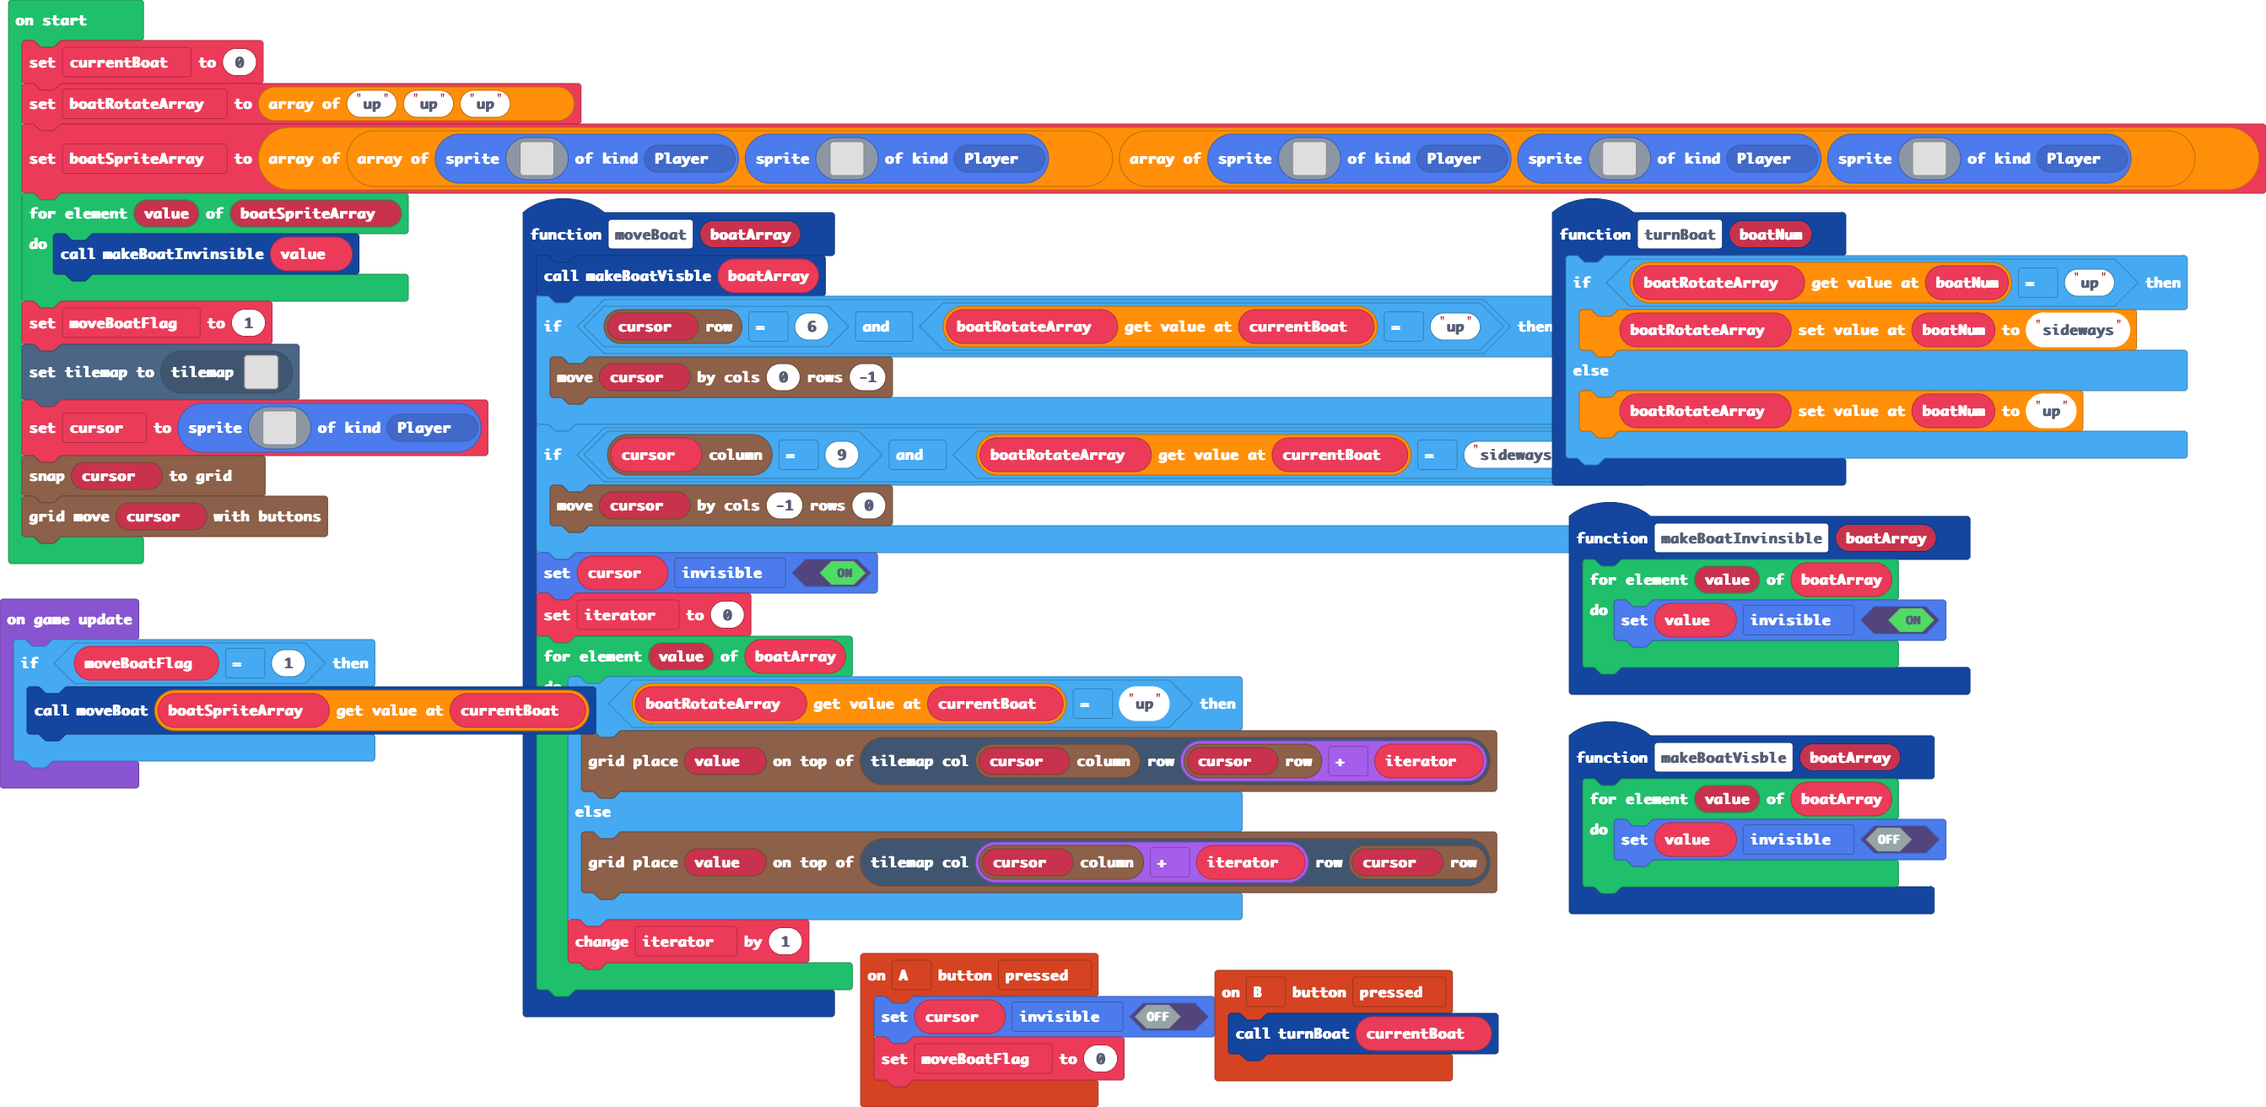
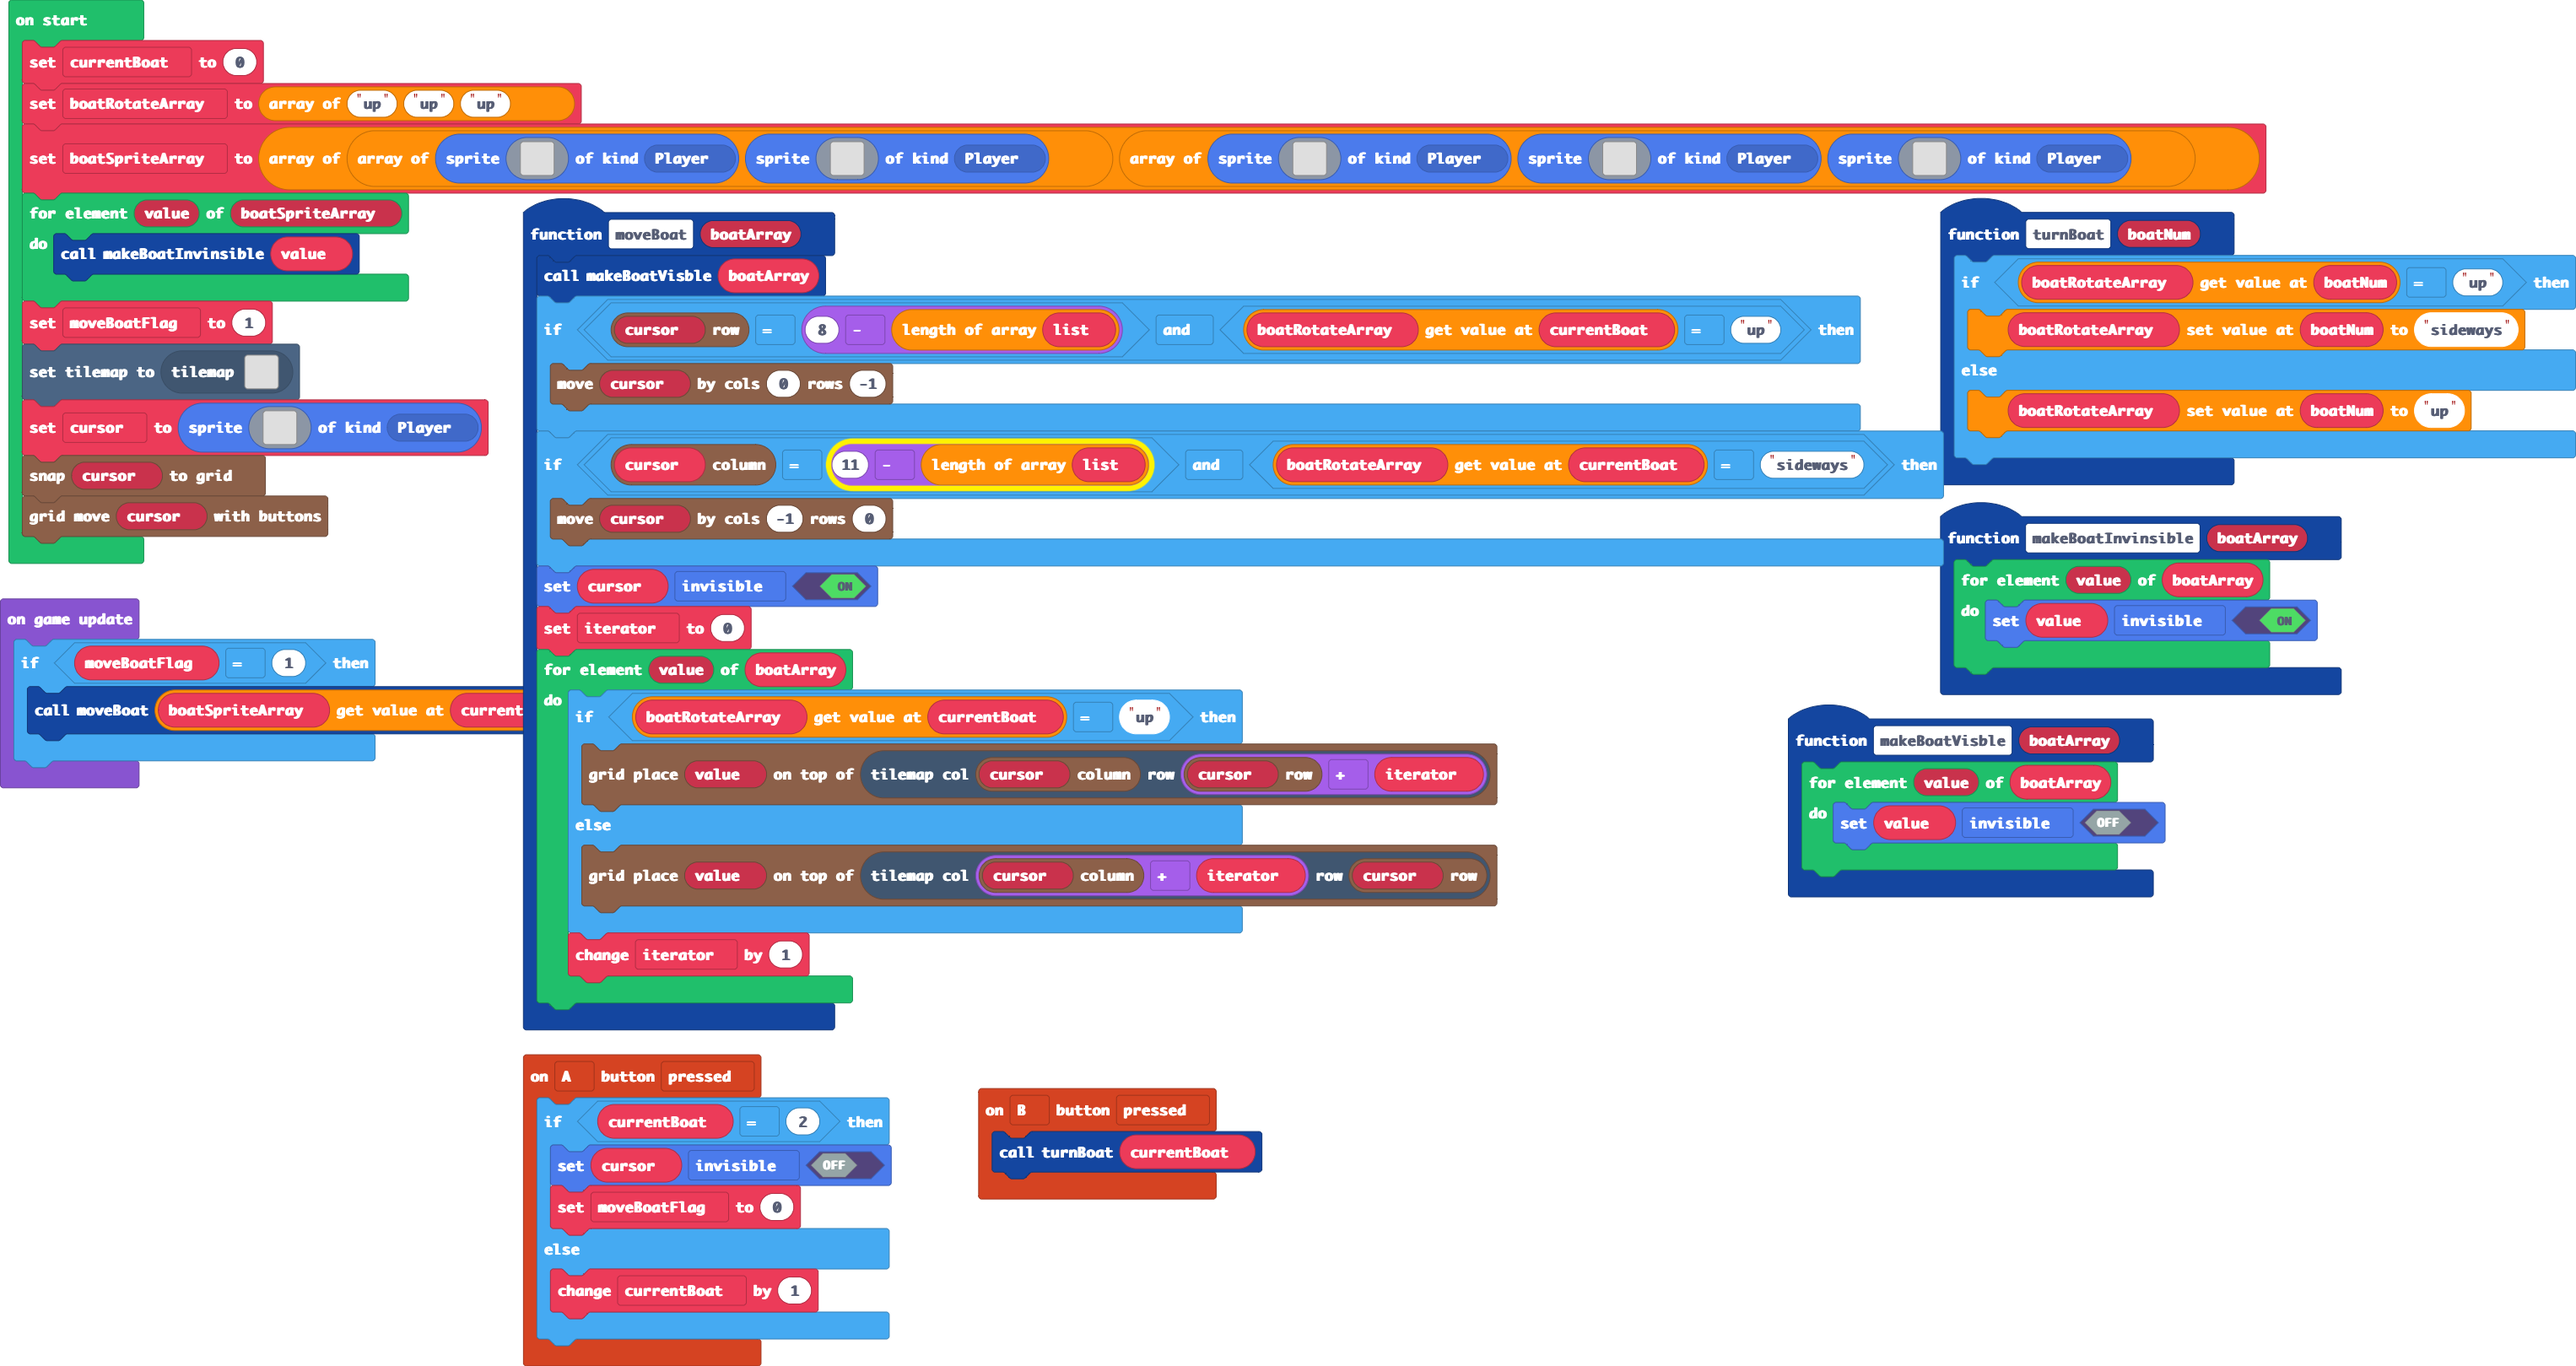
we can move boat "1"

diff --git a/main.ts b/main.ts
@@ -2,8 +2,12 @@ controller.B.onEvent(ControllerButtonEvent.Pressed, function () {
     turnBoat(currentBoat)
 })
 controller.A.onEvent(ControllerButtonEvent.Pressed, function () {
-    cursor.setFlag(SpriteFlag.Invisible, false)
-    moveBoatFlag = 0
+    if (currentBoat == 2) {
+        cursor.setFlag(SpriteFlag.Invisible, false)
+        moveBoatFlag = 0
+    } else {
+        currentBoat += 1
+    }
 })
 function makeBoatVisble (boatArray: Sprite[]) {
     for (let value of boatArray) {
@@ -11,11 +15,12 @@ function makeBoatVisble (boatArray: Sprite[]) {
     }
 }
 function moveBoat (boatArray: any[]) {
+    let list: number[] = []
     makeBoatVisble(boatArray)
-    if (grid.spriteRow(cursor) == 6 && boatRotateArray[currentBoat] == "up") {
+    if (grid.spriteRow(cursor) == 8 - list.length && boatRotateArray[currentBoat] == "up") {
         grid.move(cursor, 0, -1)
     }
-    if (grid.spriteCol(cursor) == 9 && boatRotateArray[currentBoat] == "sideways") {
+    if (grid.spriteCol(cursor) == 11 - list.length && boatRotateArray[currentBoat] == "sideways") {
         grid.move(cursor, -1, 0)
     }
     cursor.setFlag(SpriteFlag.Invisible, true)
